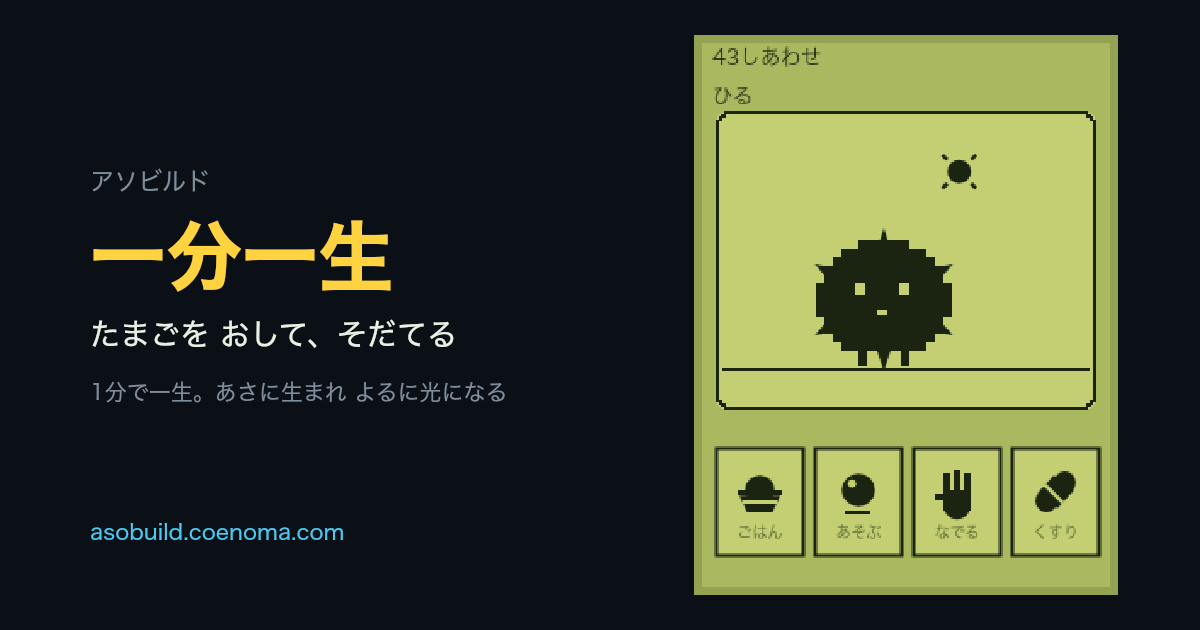
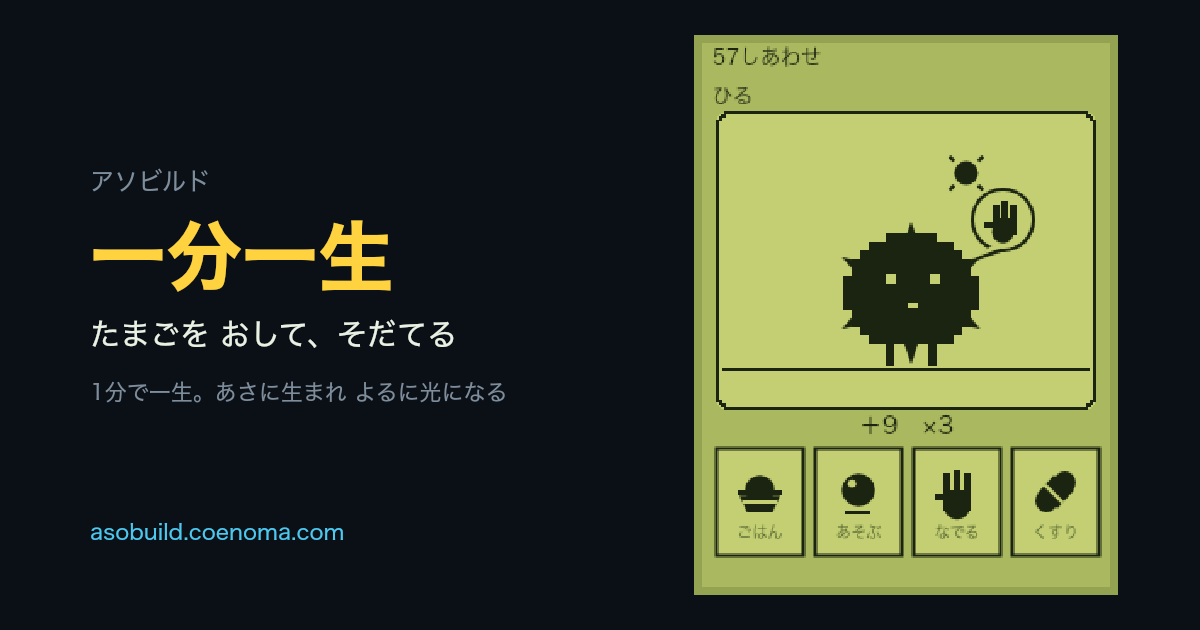
一分一生: テンポを上げ続ける（ワニワニ型）。「はやい」は0.45秒、8連続で×4
オーナーFB（2026-08-24）「たまごっち的な件が残ってて もったりした印象。
後半どんどん叩くテンポが速くなるワニワニパニックみたいに。はやいの基準ももっと厳しく」。

- **減りの速さを時間で上げ続ける**（あさ 0.7 → よるの終わり 0.18 ＝ 約4倍速）。
  ゆうがたに落ち着かせない・よるも止めない・反応アニメ中も止めない（応えた直後の0.3秒だけ）
- **よるは休みでなくラストスパート**。呼び続ける（寝かしつけ＋5・月・Zz は廃止。見出しは「さいごまで いっしょに！」）
- **吹き出しは最大3つ同時**（1つ目=右上・2つ目=左上・3つ目=真上）
- 小休止 1.2→0.3秒／場面転換 2→1.2秒／反応 1.2→0.7秒／手応え 1.2→1.0秒
- 「はやい！」は呼ばれて **0.45秒以内**（0.7→0.45）。コンボは **8連続で ×4** を追加
- 沈みきった太陽を描かない（窓の縁に光線だけ残って「)」に見えた）

実測（上手いボットの手を出す間隔）: あさ 3.6秒 → ひる 3.0秒 → ゆうがた 2.3秒 → **よる 1.6秒**。
fun 3シード×400回 合格（腕前 11倍・上振れ 1.3・出来事 3秒に1回・全称号 11〜15分）。
称号は実測で 30/150/265/385。文字の重なり 0／死の経路4本・なでる連打 OK／check 緑。

Claude-Session: https://claude.ai/code/session_01XpB6DvVSgpMLWFojem8i1S

Changed region(s): [[0.6783, 0.2413, 0.8633, 0.6032], [0.7092, 0.6635, 0.8017, 0.6937], [0.5858, 0.0603, 0.6167, 0.1206]]

diff --git a/src/games/ippun-issho/game.ts b/src/games/ippun-issho/game.ts
@@ -57,13 +57,13 @@ const T_NOON = 15;
 /** へんしん（自分が作った形に名前が付く）。sick・反応中なら落ち着くまで待つ */
 const T_MORPH = 30;
 const T_MORPH_MAX = 36;
-/** ゆうがた → よる（よるの間） */
+/** ゆうがた → よる（よるの間）。よるは休みでなく**ラストスパート**（呼びが最速になる） */
 const T_NIGHT = 45;
 /** 看取りが始まる */
-const T_BYE = 50;
+const T_BYE = 53;
 
 /** 全停止の長さ: 場面転換／へんしん */
-const PAUSE_BEAT = 2;
+const PAUSE_BEAT = 1.2;
 const PAUSE_MORPH = 2.6;
 /** 名前を大きく出す長さ（孵化の瞬間に1回） */
 const NAME_T = 1.5;
@@ -96,7 +96,7 @@ const P_FAST = 5;
 const P_NORMAL = 3;
 const P_SLOW = 1;
 /** 呼ばれてから これ以内に応えれば「はやい」（オーナー判断で厳しめ。気にしているうちに先回りしても はやい） */
-const FAST_WITHIN = 0.7;
+const FAST_WITHIN = 0.45;
 const P_CURE = 5;
 const P_MORPH = 10;
 /** 一度も強く呼ばれなかった（おだやか）。へんしん時と看取り時の2回 */
@@ -104,7 +104,6 @@ const P_CALM = 10;
 const P_KIRA = 25;
 const KIRA_MULT = 1.5;
 
-const P_TUCK = 5;
 const P_LIVED = 15;
 /** 一度も雨が降らなかった（きれいな一生） */
 const P_CLEAN = 15;
@@ -137,8 +136,10 @@ const BTN_GAP = 58;
 const EPI_Y = 54;
 const EPI_LINE = 18;
 /** ＋N の長さ／反応の既定の長さ */
-const GAIN_T = 1.2;
-const ANIM_T = 1.2;
+const GAIN_T = 1.0;
+const ANIM_T = 0.7;
+/** 応えた直後の小休止（この間だけ減りが止まる）。長いと「もったり」する */
+const REST_T = 0.3;
 
 /* ---- おわかれの時間割（設計 §8）-------------------------------- */
 
@@ -274,7 +275,6 @@ export interface IppunIsshoState extends BaseState, FeelState {
   growWord: string;
   growWordT: number;
   bandage: boolean;
-  tucked: boolean;
 
   /* 全停止（場面転換・へんしん） */
   pause: Pause;
@@ -316,9 +316,9 @@ function gain(n: IppunIsshoState, base: number, word = '', mult = 1): void {
   n.mult = mult;
 }
 
-/** コンボの倍率。3連続で ×2、5連続で ×3 */
+/** コンボの倍率。3連続で ×2、5連続で ×3、8連続で ×4（終盤の速い呼びに応え続けた人の取り分） */
 function multOf(combo: number): number {
-  return combo >= 5 ? 3 : combo >= 3 ? 2 : 1;
+  return combo >= 8 ? 4 : combo >= 5 ? 3 : combo >= 3 ? 2 : 1;
 }
 
 /** コンボが切れる（雨・違うボタン・おそい）。言葉で見せる */
@@ -367,7 +367,7 @@ function setDrain(n: IppunIsshoState, i: Need, v: number): void {
 
 /** その欲求の段階。0=げんき 1=気にする 2=呼ぶ 3=強く呼ぶ 4=よわる（雨）。5=ぐあいわるい は sick */
 function levelOf(s: IppunIsshoState, i: Need): number {
-  if (s.phase !== 'life' || s.t >= T_NIGHT) return 0;
+  if (s.phase !== 'life') return 0;
   const v = needOf(s, i);
   if (v <= LV2_AT) {
     const c = callOf(s, i);
@@ -399,33 +399,20 @@ function worstLevel(s: IppunIsshoState): number {
   return w === -1 ? 0 : levelOf(s, w);
 }
 
-/** 2つ目（同時に呼んでいるとき）。無ければ -1 */
-function secondNeed(s: IppunIsshoState): Need | -1 {
-  const first = worstNeed(s);
-  if (first < 0) return -1;
-  let best: Need | -1 = -1;
-  let bestLv = 0;
-  for (const i of [0, 1, 2] as const) {
-    if (i === first) continue;
-    const lv = levelOf(s, i);
-    if (lv >= 2 && lv > bestLv) {
-      best = i;
-      bestLv = lv;
-    }
-  }
-  return best;
-}
-
-/** 吹き出しに出すもの（病気なら くすり だけ） */
+/** 吹き出しに出すもの（病気なら くすり だけ）。呼んでいる欲求は**全部**出す（最大3つ＝ワニワニ）。困っている順 */
 function bubbles(s: IppunIsshoState): { kind: Kind; lv: number }[] {
   if (s.phase !== 'life' || s.pause !== '' || !s.alive) return [];
   if (s.sick) return [{ kind: 'kusuri', lv: 5 }];
-  const out: { kind: Kind; lv: number }[] = [];
-  const a = worstNeed(s);
-  if (a !== -1) out.push({ kind: NEED_KIND[a], lv: levelOf(s, a) });
-  const b = secondNeed(s);
-  if (b !== -1) out.push({ kind: NEED_KIND[b], lv: levelOf(s, b) });
-  return out;
+  const out: { kind: Kind; lv: number; c: number }[] = [];
+  for (const i of [0, 1, 2] as const) {
+    const lv = levelOf(s, i);
+    if (lv >= 1) out.push({ kind: NEED_KIND[i], lv, c: callOf(s, i) });
+  }
+  out.sort((x, y) => y.lv - x.lv || y.c - x.c);
+  // 「気にする」（Lv1）は、呼んでいるものが無いときだけ1つ見せる
+  const calling = out.filter((b) => b.lv >= 2);
+  const shown = calling.length > 0 ? calling : out.slice(0, 1);
+  return shown.map(({ kind, lv }) => ({ kind, lv }));
 }
 
 /** 年齢＝大きさ（設計 §6）。あさ3・ひる4・よる5 */
@@ -450,10 +437,11 @@ function legLen(s: IppunIsshoState): number {
   return Math.round(a * 3 * (dotOf(s) / 4));
 }
 
-/** 吹き出しの中心（キャラの頭の右上に追従。2つ目は左上） */
+/** 吹き出しの中心（キャラの頭に追従。1つ目は右上・2つ目は左上・3つ目は真上） */
 function bubbleAt(s: IppunIsshoState, idx: number): { x: number; y: number } {
   const dot = dotOf(s);
   const headY = FLOOR_Y - 16 * dot - legLen(s) + 4 * dot;
+  if (idx === 2) return { x: CHAR_X + s.walkX, y: headY - 40 };
   const side = idx === 0 ? 1 : -1;
   return { x: CHAR_X + s.walkX + side * (8 * dot + 14), y: headY - 18 };
 }
@@ -551,7 +539,6 @@ export default defineGame<IppunIsshoState>({
       growWord: '',
       growWordT: 0,
       bandage: false,
-      tucked: false,
 
       pause: '',
       pauseT: 0,
@@ -654,7 +641,6 @@ export default defineGame<IppunIsshoState>({
     if (s.phase === 'bye' || s.phase === 'gone') return frame % 63 === 0 ? char : idle;
     if (s.pause !== '') return idle;
     if (s.sick) return btn(3);
-    if (s.t >= T_NIGHT) return s.tucked ? idle : char;
     // 人間の上手い人の揺らぎ: 55% は「気にする」で先回り（はやい）、30% は呼ばれて2秒で（ふつう）、
     // 15% は強く呼ばれてから（おそい・コンボが切れる）。
     // 呼びごとに1回だけ決まる（その子の減りの位相と、これまでの世話の数から引く）＝一生ごとに点が散り、
@@ -710,22 +696,24 @@ export default defineGame<IppunIsshoState>({
  * step の中身
  * ================================================================== */
 
-/** あさは呼びが多い（本家「最初の30分が最も忙しい」）。ゆうがたは落ち着く */
+/**
+ * 減りの速さは**時間とともに上がり続ける**（ワニワニ型。あさ 0.6 → よるの終わり 0.24 ＝ 2.5倍速）。
+ * ゆうがたに落ち着かない・よるも止まらない。終盤は2〜3秒に1回呼び、吹き出しが2〜3つ重なる。
+ */
 function drainSpan(s: IppunIsshoState, i: Need): number {
-  const mul = s.t < T_NOON ? 0.6 : s.t < T_MORPH ? 1 : 1.5;
-  const per = i === 0 ? 1 : i === 1 ? 1.3 : 1.6;
+  const p = Math.min(1, s.t / T_BYE);
+  const mul = 0.7 - 0.52 * p; // あさ 0.7 → よるの終わり 0.18（約4倍速）
+  const per = i === 0 ? 1 : i === 1 ? 1.15 : 1.3;
   const pace = i === 0 ? s.pace0 : i === 1 ? s.pace1 : s.pace2;
   return TUNE.drain * per * mul * pace;
 }
 
 /** 減り → 呼びの段階 → よわり（雨）→ ぐあいわるい → 力尽きる（設計 §6） */
 function stepNeeds(n: IppunIsshoState, dt: number): void {
-  const night = n.t >= T_NIGHT;
-  // 応えた・治した直後の小休止だけ減らない（「次の呼びは前の反応が終わってから」。
-  // 反応アニメ全般で止めると、なでる連打で永久に呼ばれなくなる＝原則3が壊れる）
+  // 応えた・治した直後の短い小休止だけ減らない（反応アニメ全般で止めると連打で呼ばれなくなり、長いと「もったり」する）
   const busy = n.restT > 0;
   for (const i of [0, 1, 2] as const) {
-    if (!night && !n.sick && !busy) {
+    if (!n.sick && !busy) {
       const span = drainSpan(n, i);
       const d = (i === 0 ? n.drain0 : i === 1 ? n.drain1 : n.drain2) + dt;
       if (d >= span) {
@@ -737,7 +725,7 @@ function stepNeeds(n: IppunIsshoState, dt: number): void {
         setDrain(n, i, d);
       }
     }
-    if (!night && needOf(n, i) <= LV2_AT) {
+    if (needOf(n, i) <= LV2_AT) {
       const c = callOf(n, i);
       const c2 = c + dt;
       setCall(n, i, c2);
@@ -819,8 +807,7 @@ function stepPhase(n: IppunIsshoState, rng: Rng): void {
         n.beatDone = 2;
         n.pause = 'night';
         n.pauseT = PAUSE_BEAT;
-        animate(n, 10, PAUSE_BEAT);
-        n.call0 = n.call1 = n.call2 = 0;
+        animate(n, 9, PAUSE_BEAT);
         n.grewT = 0.6;
         addPop(n);
         beep(n);
@@ -915,7 +902,7 @@ function stepIdle(n: IppunIsshoState, dt: number, rng: Rng): void {
     if (n.idle === 0 && rng.chance(0.4)) n.walkDir = -n.walkDir;
   }
   const lv = worstLevel(n);
-  const still = n.sick || n.tucked || n.pause !== '' || n.anim === 2 || lv >= 4 || n.t >= T_NIGHT;
+  const still = n.sick || n.pause !== '' || n.anim === 2 || lv >= 4;
   if (still) {
     n.walkX *= Math.max(0, 1 - dt * 4);
     return;
@@ -1036,16 +1023,15 @@ function answer(n: IppunIsshoState, i: Need): void {
   setNeed(n, i, NEED_MAX);
   setCall(n, i, 0);
   setDrain(n, i, 0);
-  n.restT = ANIM_T;
+  n.restT = REST_T;
 }
 
 /** 世話ボタン4つ（設計 §5 の反応表。押して無反応になる枝を作らない） */
 function doCare(n: IppunIsshoState, kind: Kind): void {
-  const night = n.t >= T_NIGHT;
   switch (kind) {
     case 'gohan': {
       if (offCall(n, 0)) return refuse(n, true);
-      if (n.sick || n.tucked || n.fullT > 0) return refuse(n);
+      if (n.sick || n.fullT > 0) return refuse(n);
       n.fed++;
       if (n.hunger >= NEED_MAX - 0.5) {
         // 満腹。点は無いが体は丸くなる（舵）。続けると「げふ」（笑える罰。病気にはしない）
@@ -1073,7 +1059,7 @@ function doCare(n: IppunIsshoState, kind: Kind): void {
     }
     case 'asobu': {
       if (offCall(n, 1)) return refuse(n, true);
-      if (n.sick || night || n.tucked) return refuse(n);
+      if (n.sick) return refuse(n);
       n.played++;
       const wantedNow = levelOf(n, 1) >= 1;
       if (wantedNow) answer(n, 1);
@@ -1098,8 +1084,8 @@ function doCare(n: IppunIsshoState, kind: Kind): void {
         setDrain(n, i, 0);
       }
       gain(n, P_CURE);
-      n.restT = 1.4;
-      animate(n, 4, 1.4);
+      n.restT = REST_T;
+      animate(n, 4, 0.9);
       addPop(n);
       hitStop(n, 0.06);
       return;
@@ -1111,17 +1097,6 @@ function doCare(n: IppunIsshoState, kind: Kind): void {
 function pet(n: IppunIsshoState): void {
   if (n.sick) {
     animate(n, 11, 0.7); // つらそうに震える（点なし）
-    return;
-  }
-  if (n.t >= T_NIGHT) {
-    if (!n.tucked) {
-      n.tucked = true;
-      gain(n, P_TUCK);
-      animate(n, 5, 1.4);
-      addPop(n);
-      return;
-    }
-    animate(n, 3, 0.5);
     return;
   }
   if (offCall(n, 2)) return refuse(n, true);
@@ -1273,6 +1248,8 @@ function drawSky(g: Painter, s: IppunIsshoState, ink: ColorKey, hole: ColorKey):
   const cx = WIN_X + 22 + p * (WIN_W + 4);
   const top = WIN_Y + 34;
   const cy = p < 0.5 ? top + 26 - Math.sin(p * Math.PI) * 26 : top + ((p - 0.5) / 0.5) * 26;
+  // 窓の右端まで来たら沈みきったものとして描かない（光線だけが縁に残ると「)」に見える）
+  if (cx > WIN_X + WIN_W - 18) return;
   g.circle(cx, cy, 7, ink);
   for (let i = 0; i < 4; i++) {
     const a = (i / 4) * Math.PI * 2 + Math.PI / 4;
@@ -1314,16 +1291,6 @@ function drawProps(g: Painter, s: IppunIsshoState, ink: ColorKey, hole: ColorKey
     const bx = CHAR_X + Math.sin(p * Math.PI * 2) * 70;
     drawIcon(g, 'asobu', bx, FLOOR_Y - 9, 16, ink, hole);
   }
-  if (s.tucked && s.phase === 'life') {
-    // ねむり: 「z」を3つ、斜め上へ（字でなくドット絵。吹き出しや＋N と重ならない左側に）
-    const x0 = CHAR_X + s.walkX - 8 * dotOf(s) - 30;
-    const y0 = FLOOR_Y - 16 * dotOf(s) + 10;
-    for (let i = 0; i < 3; i++) {
-      const sc = 2 + i;
-      const on = Math.floor(s.time * 1.5 + i) % 3 !== 2;
-      if (on) g.sprite(ZEE, x0 - i * 20, y0 - i * 24, { scale: sc, colors: { X: ink } });
-    }
-  }
 }
 
 /* ---- キャラ（3軸で形を作る。設計 §7）-------------------------------- */
@@ -1340,10 +1307,9 @@ type Mood = 'futsu' | 'niko' | 'shon' | 'nemu' | 'kaze' | 'kininaru';
 function moodOf(s: IppunIsshoState): Mood {
   if (s.phase === 'bye') return s.early ? 'kaze' : 'niko';
   if (s.sick) return 'kaze';
-  if (s.tucked || s.anim === 5) return 'nemu';
+  if (s.anim === 5) return 'nemu';
   if (s.anim === 6 || s.anim === 7 || s.anim === 11) return 'shon';
   if (s.anim >= 1 && s.anim <= 4) return 'niko';
-  if (s.t >= T_NIGHT) return 'nemu';
   const lv = worstLevel(s);
   if (lv >= 4) return 'shon';
   if (lv >= 1) return 'kininaru';
@@ -1361,7 +1327,7 @@ function drawCreature(g: Painter, s: IppunIsshoState, cx: number, footY: number,
 
   // 跳ね: げんきなら時々ぴょこ。あし軸が長いと高く。よわっていれば無し
   let hop = 0;
-  if (s.phase === 'life' && s.alive && !s.sick && !s.tucked && lv < 4 && s.pause === '' && s.anim !== 11) {
+  if (s.phase === 'life' && s.alive && !s.sick && lv < 4 && s.pause === '' && s.anim !== 11) {
     const period = s.ashi >= 6 ? 0.45 : 0.9;
     const ph = (s.time % period) / period;
     const amp = s.ashi >= 6 ? 12 : lv >= 2 ? 0 : 4;
@@ -1598,7 +1564,7 @@ function drawBubbles(g: Painter, s: IppunIsshoState, ink: ColorKey, hole: ColorK
     const small = b.lv === 1;
     if (b.lv >= 3 && b.lv !== 5 && Math.floor(s.time * 4) % 2 === 1) continue;
     const r = small ? 11 : BUBBLE_R;
-    const side = i === 0 ? 1 : -1;
+    const side = i === 0 ? 1 : i === 1 ? -1 : 0;
     g.circle(at.x, at.y, r + 2, ink);
     g.circle(at.x, at.y, r, hole);
     g.poly([at.x - side * 6, at.y + r - 2, at.x - side * (r + 2), at.y + r + 8, at.x + side * 2, at.y + r + 1], ink);
@@ -1660,7 +1626,7 @@ function drawBanner(g: Painter, s: IppunIsshoState, ink: ColorKey, hole: ColorKe
   }
   if (s.pause === 'night') {
     g.text('よる', W / 2, WIN_Y + 6, { size: 18, align: 'center', color: ink });
-    g.text('もうすぐ おわかれ', W / 2, WIN_Y + 30, { size: 11, align: 'center', color: ink });
+    g.text('さいごまで いっしょに！', W / 2, WIN_Y + 30, { size: 11, align: 'center', color: ink });
   } else {
     g.text('ひる', 96, WIN_Y + 10, { size: 20, align: 'center', color: ink });
     const cx = 150;
@@ -1715,10 +1681,7 @@ function drawBye(g: Painter, s: IppunIsshoState, sx: number, sy: number, ink: Co
     g.rect(CHAR_X - 6, FLOOR_Y - 6, 12, 3, ink);
     if (s.bandage) g.rect(CHAR_X + 12, FLOOR_Y - 8, 8, 3, ink);
 
-    if (s.tucked) {
-      g.circle(CHAR_X + 26, FLOOR_Y - 10, 4, ink);
-      g.circle(CHAR_X + 28, FLOOR_Y - 11, 3, hole);
-    }
+
   }
   drawEpitaph(g, s, ink, hole);
 }
@@ -1734,11 +1697,9 @@ function drawEpitaph(g: Painter, s: IppunIsshoState, ink: ColorKey, hole: ColorK
         ? 'いちど たおれて、なおった'
         : !s.rained && !s.early
           ? 'いちども なかなかった'
-          : s.tucked
-            ? 'さいごは ねむって'
-            : s.early
-              ? 'あめが ふっていた'
-              : 'ふつうの いちにち';
+          : s.early
+            ? 'あめが ふっていた'
+            : 'ふつうの いちにち';
   const lines = s.early
     ? [s.form === 'tsubu' ? `${name}は まだ あかちゃんだった` : `${name}は ${FORM_NAME[s.form]}だった`, 'まっていた', event, `${whenLabel(s.endT)}に おわかれ`]
     : [`${name}は ${FORM_NAME[s.form]}に なった`, FORM_WHY[s.form], event, s.form === 'tabi' ? 'ひとりで いきた' : 'あさから よるまで いっしょだった'];
@@ -1952,5 +1913,4 @@ const BODY_MANMARU = [
 
 /** ハート（なでる の反応） */
 const HEART = ['.X.X.', 'XXXXX', 'XXXXX', '.XXX.', '..X..'];
-/** ねむりの z */
-const ZEE = ['XXXXX', '....X', '..XX.', '.X...', 'XXXXX'];
+

diff --git a/src/games/ippun-issho/meta.ts b/src/games/ippun-issho/meta.ts
@@ -9,7 +9,8 @@ import type { GameMeta } from '@/arcade/types';
  * 32件のFBを統合して根本原因を出し、設計から作り直した（docs/plans/008-ippun-issho/design.md §0〜§1）。
  * 芯は「毎タップが舵」: ごはん→丸く／あそぶ→足が伸びる／なでる→毛が立つ。t=30 に自分が作った形へ名前が付く。
  * たまごは無く、生まれた瞬間から頼られる。放てば6秒で雨、18秒で力尽きる。応えれば必ず助かる。
- * はやく応えるほど高く（呼ばれて0.7秒以内）、連続で倍。ルールは窓とボタンの間の帯に言葉で出る。
+ * はやく応えるほど高く（呼ばれて0.45秒以内）、連続で倍（3→×2 / 5→×3 / 8→×4）。ルールは窓とボタンの間の帯に言葉で出る。
+ * **減りの速さは時間とともに上がり続ける**（あさ→よるで約4倍速）。よるは休みでなくラストスパート。
  *
  * 型は nurture。調査は docs/research/virtual-pet-1996.md。
  */
@@ -34,10 +35,10 @@ export const meta: GameMeta = {
    * ※ ここは実測（npm run fun -- ippun-issho --runs=400 の seed 0/777/31337）で確定する。
    */
   goals: [
-    { score: 20, label: 'ともだち' },
-    { score: 60, label: 'なかよし' },
-    { score: 110, label: 'かぞく' },
-    { score: 174, label: 'あいぼう' },
+    { score: 30, label: 'ともだち' },
+    { score: 150, label: 'なかよし' },
+    { score: 265, label: 'かぞく' },
+    { score: 385, label: 'あいぼう' },
   ],
   /**
    * 終わりは失敗ではない。結果画面の reason() を赤で出さず（mono では ink）、
